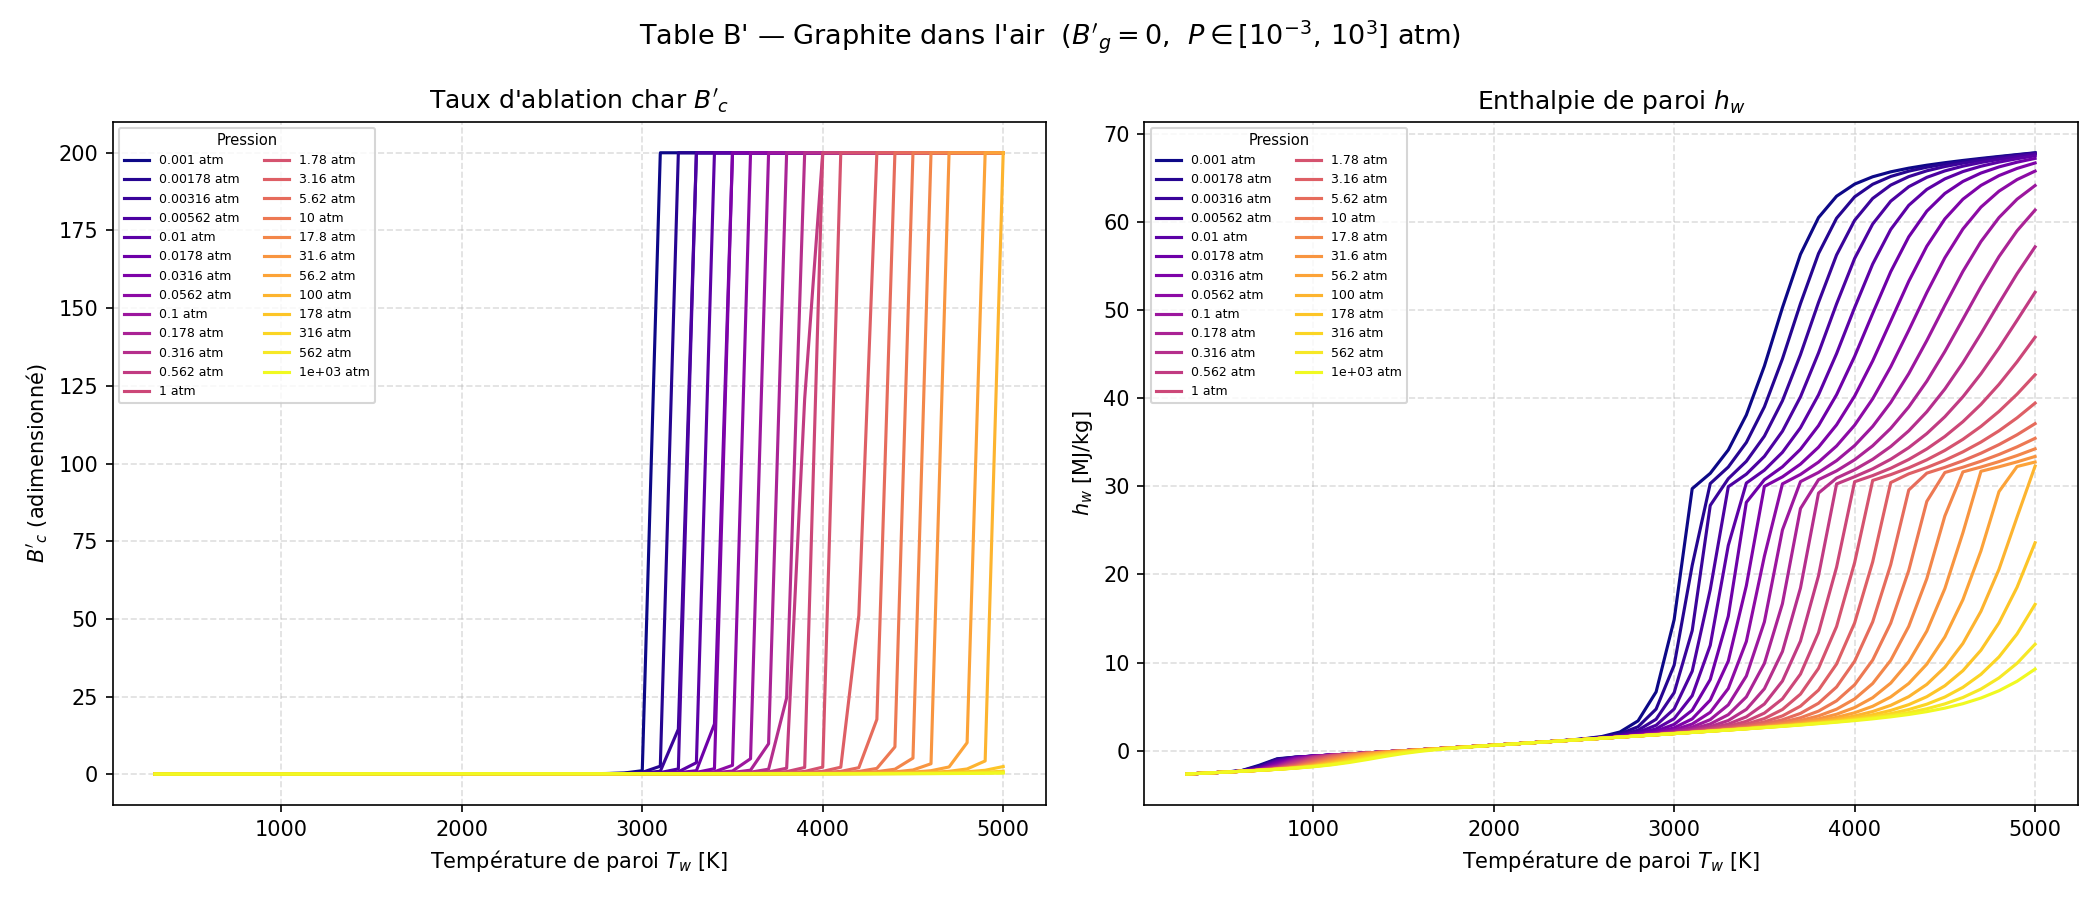
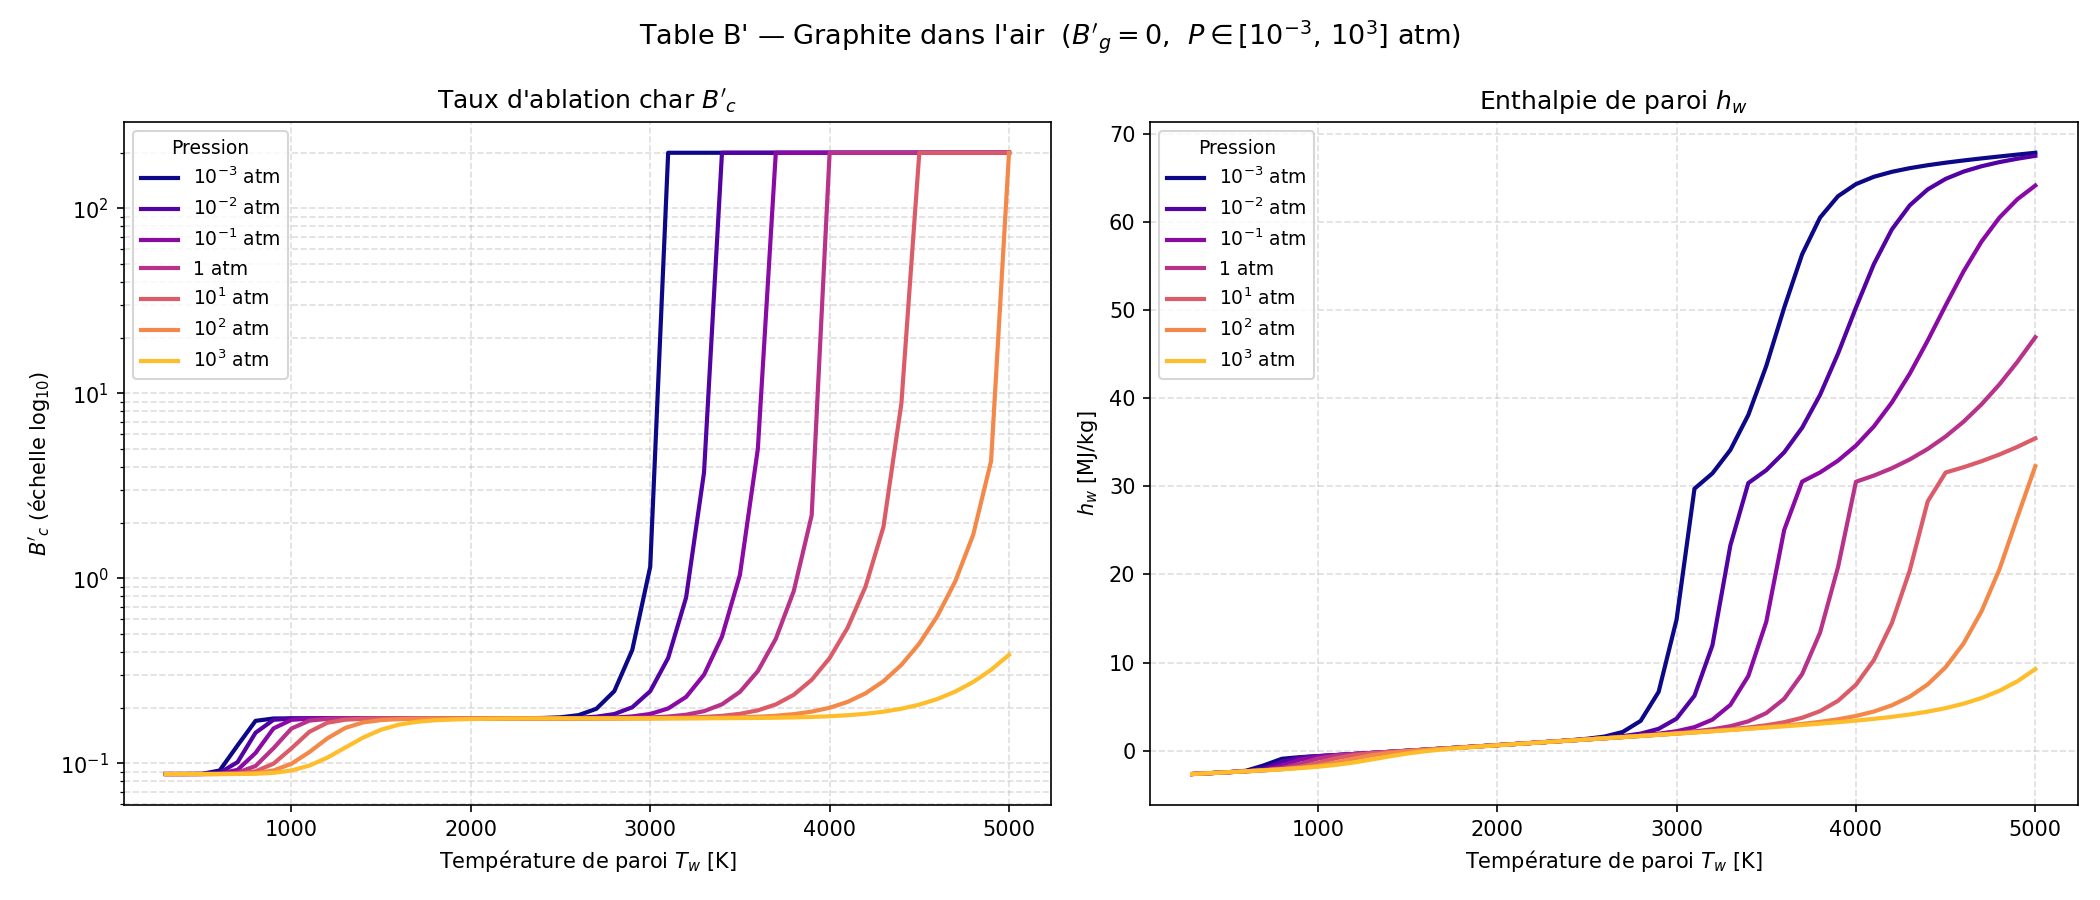
Plot B'c on log10 scale with only powers-of-10 isobares
- B'c axis switched to log10 scale (set_yscale("log"))
- Only the 7 pressure curves at powers of 10 (0.001–1000 atm) are
  plotted for clarity, while the full 25-curve CSV table is still saved
- Labels formatted as 10^n atm using LaTeX notation
- Fix plt.get_cmap() for older matplotlib compatibility

https://claude.ai/code/session_01TsMqaCcnqmRFoHHUQ729Uj

diff --git a/examples/python/carbon_bprime.py b/examples/python/carbon_bprime.py
@@ -103,14 +103,22 @@ def parse_output(output):
 # Visualisation
 # ---------------------------------------------------------------------------
 
+# Pressions à tracer : uniquement les puissances de 10
+PLOT_PRESSURES_ATM = np.logspace(-3, 3, 7)   # 0.001, 0.01, 0.1, 1, 10, 100, 1000 atm
+
+
 def plot_bprime_table(all_data, pressures_atm):
     """
     Trace la table B' classique :
-      - Gauche  : B'c vs Tw, une courbe par pression
-      - Droite  : h_w vs Tw, une courbe par pression
+      - Gauche  : B'c vs Tw en échelle log10, une courbe par puissance de 10
+      - Droite  : h_w vs Tw, une courbe par puissance de 10
+    Seules les 7 pressions puissances de 10 sont tracées.
     """
-    n = len(pressures_atm)
-    cmap = cm.colormaps.get_cmap("plasma").resampled(n)
+    # Construire un index {P_atm: (header, data)} pour sélectionner facilement
+    data_map = {P: d for P, d in zip(pressures_atm, all_data)}
+
+    n = len(PLOT_PRESSURES_ATM)
+    colors = plt.get_cmap("plasma", n + 1)   # +1 pour éviter le jaune pâle en fin de palette
 
     fig, (ax1, ax2) = plt.subplots(1, 2, figsize=(14, 6))
     fig.suptitle(
@@ -119,26 +127,37 @@ def plot_bprime_table(all_data, pressures_atm):
         fontsize=13
     )
 
-    for idx, (P_atm, (header, data)) in enumerate(zip(pressures_atm, all_data)):
-        Tw    = data[:, 0]
-        Bc    = data[:, 1]
-        hw    = data[:, 2]   # MJ/kg (déjà converti par bprime)
-        color = cmap(idx)
-        lbl   = f"{P_atm:.3g} atm"
+    for idx, P_atm in enumerate(PLOT_PRESSURES_ATM):
+        # Trouver la pression la plus proche dans les données calculées
+        closest = min(pressures_atm, key=lambda p: abs(np.log10(p) - np.log10(P_atm)))
+        header, data = data_map[closest]
 
-        ax1.plot(Tw, Bc, color=color, lw=1.5, label=lbl)
-        ax2.plot(Tw, hw, color=color, lw=1.5, label=lbl)
+        Tw  = data[:, 0]
+        Bc  = data[:, 1]
+        hw  = data[:, 2]
 
-    for ax, ylabel, title in [
-        (ax1, r"$B'_c$ (adimensionné)",   r"Taux d'ablation char $B'_c$"),
-        (ax2, r"$h_w$ [MJ/kg]",           r"Enthalpie de paroi $h_w$"),
-    ]:
-        ax.set_xlabel("Température de paroi $T_w$ [K]")
-        ax.set_ylabel(ylabel)
-        ax.set_title(title)
-        ax.grid(True, ls="--", alpha=0.4)
-        ax.legend(fontsize=6, ncol=2, loc="upper left",
-                  title="Pression", title_fontsize=7)
+        # Étiquette propre : puissance de 10
+        exp = int(round(np.log10(P_atm)))
+        lbl = rf"$10^{{{exp}}}$ atm" if exp != 0 else "1 atm"
+
+        color = colors(idx)
+
+        ax1.plot(Tw, Bc, color=color, lw=2, label=lbl)
+        ax2.plot(Tw, hw, color=color, lw=2, label=lbl)
+
+    # Axe B'c en échelle log10
+    ax1.set_yscale("log")
+    ax1.set_xlabel("Température de paroi $T_w$ [K]")
+    ax1.set_ylabel(r"$B'_c$ (échelle log$_{10}$)")
+    ax1.set_title(r"Taux d'ablation char $B'_c$")
+    ax1.grid(True, which="both", ls="--", alpha=0.4)
+    ax1.legend(fontsize=9, loc="upper left", title="Pression", title_fontsize=9)
+
+    ax2.set_xlabel("Température de paroi $T_w$ [K]")
+    ax2.set_ylabel(r"$h_w$ [MJ/kg]")
+    ax2.set_title(r"Enthalpie de paroi $h_w$")
+    ax2.grid(True, ls="--", alpha=0.4)
+    ax2.legend(fontsize=9, loc="upper left", title="Pression", title_fontsize=9)
 
     plt.tight_layout()
     out_png = "carbon_bprime_table.png"
